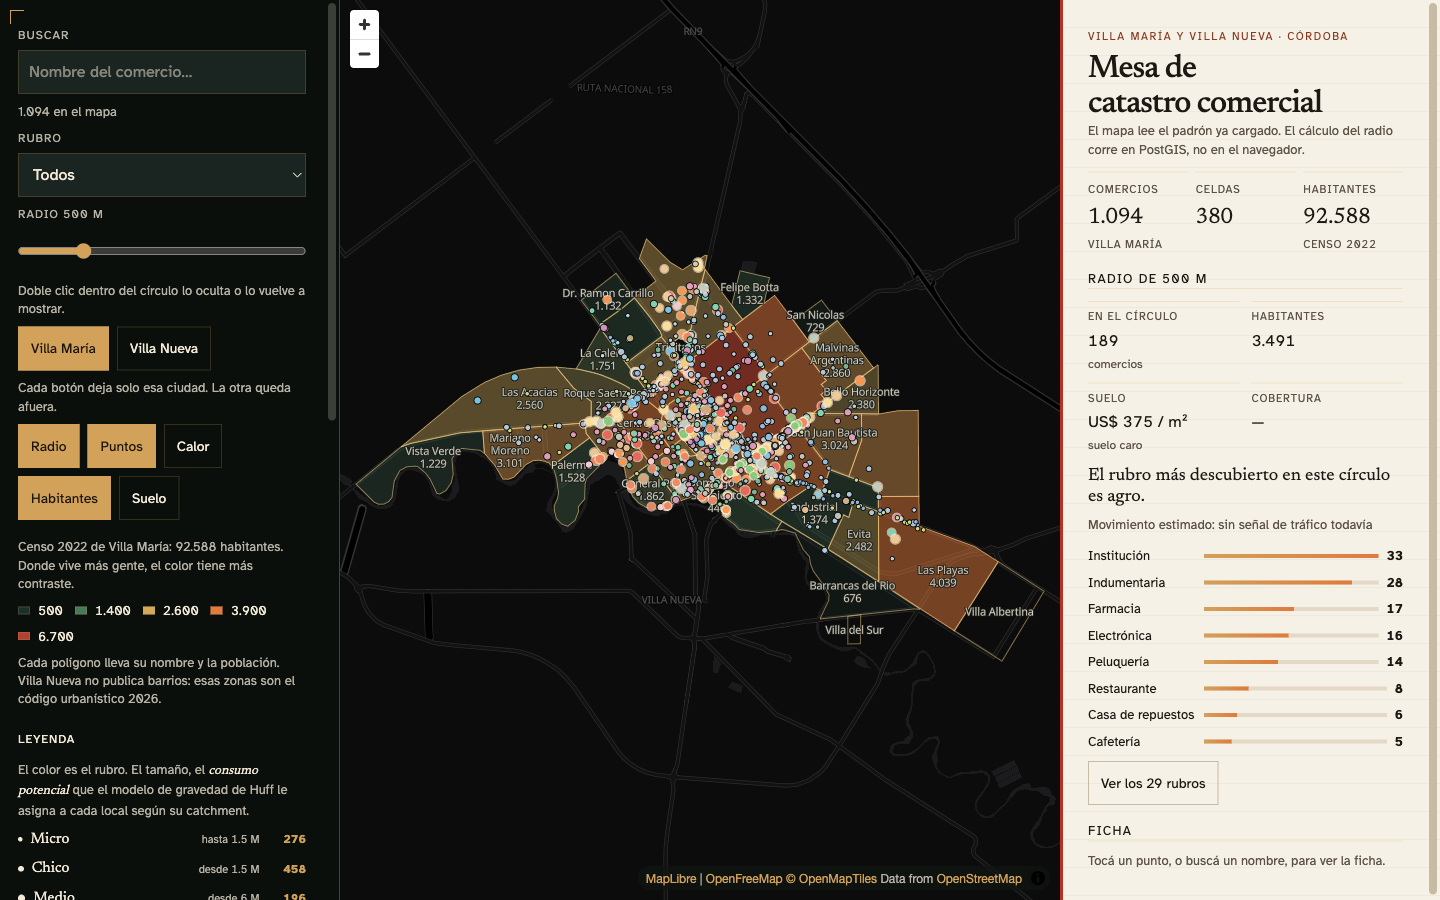
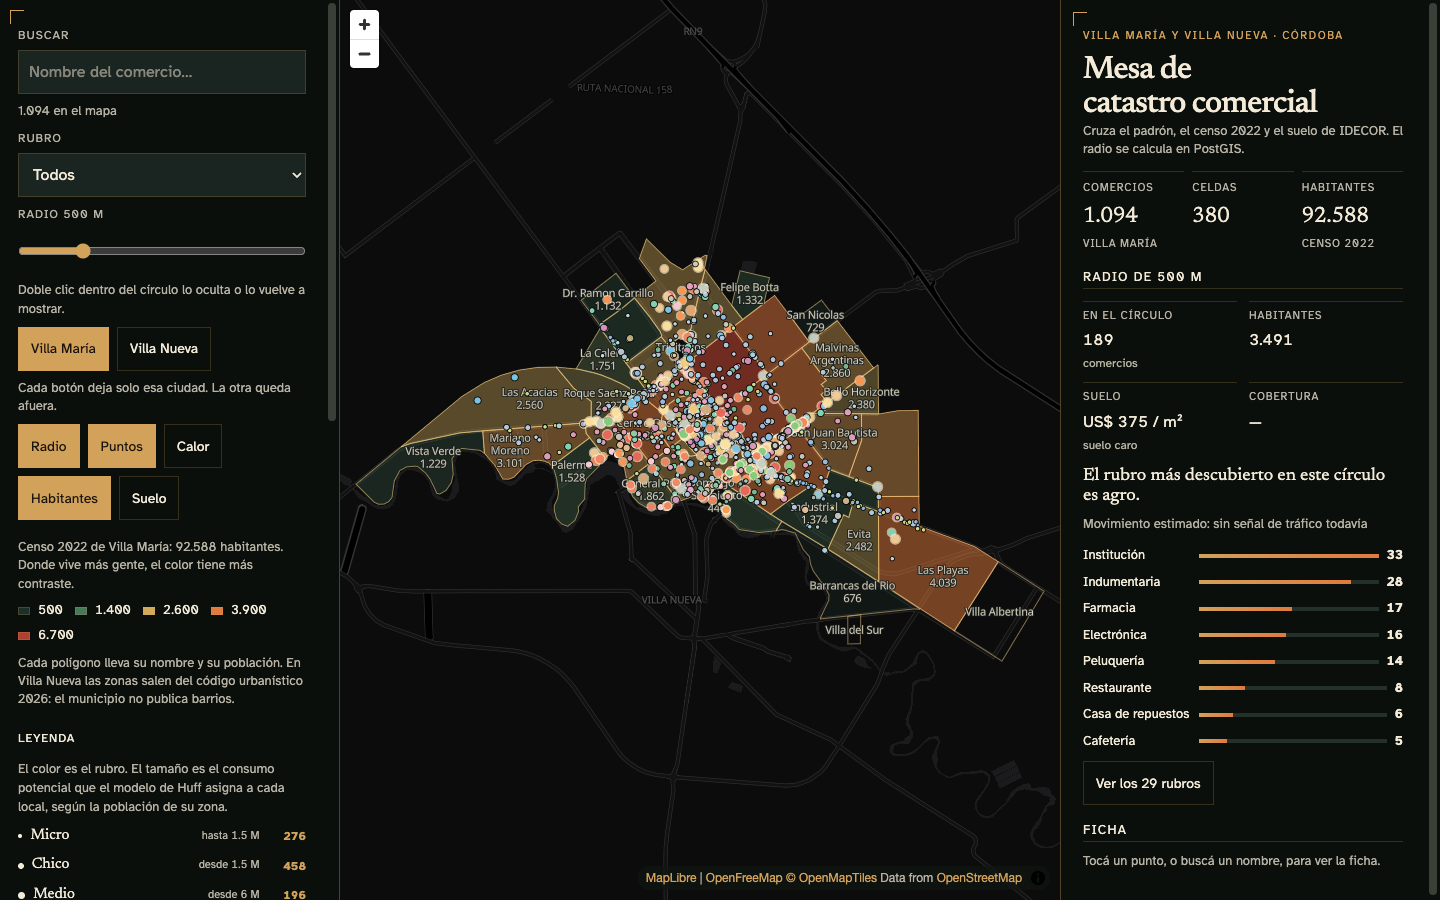
style: match the reading sheet to the dark desk

diff --git a/apps/web/src/app/globals.css b/apps/web/src/app/globals.css
@@ -443,19 +443,19 @@ a:focus-visible {
   height: 100%;
   overflow: auto;
   overscroll-behavior: contain;
-  scrollbar-color: #c8bba4 transparent;
-  padding: max(28px, env(safe-area-inset-top)) 22px max(32px, env(safe-area-inset-bottom)) 28px;
-  color: #1c1914;
+  scrollbar-color: #3a4038 transparent;
+  padding: max(28px, env(safe-area-inset-top)) 22px max(32px, env(safe-area-inset-bottom)) 22px;
+  color: var(--paper);
   background:
-    linear-gradient(#b43324, #b43324) 0 0 / 3px 100% no-repeat,
-    repeating-linear-gradient(#f6f1e6, #f6f1e6 27px, rgba(28, 25, 20, 0.06) 28px),
-    #f3ecdf;
-  border-left: 0;
+    linear-gradient(var(--brass), var(--brass)) 12px 12px / 14px 1px no-repeat,
+    linear-gradient(var(--brass), var(--brass)) 12px 12px / 1px 14px no-repeat,
+    #0a0f0c;
+  border-left: 1px solid rgba(210, 161, 90, 0.35);
 }
 
 .eyebrow {
   margin: 0;
-  color: #8a3a22;
+  color: var(--brass);
   letter-spacing: 0.14em;
   text-transform: uppercase;
   font-size: 11px;
@@ -476,55 +476,6 @@ a:focus-visible {
   color: var(--muted);
   font-size: 13px;
   line-height: 1.45;
-}
-
-.inspector .lede,
-.inspector .note,
-.inspector .empty,
-.inspector .statline,
-.inspector .meters dt,
-.inspector .meters dd small,
-.inspector .cross dt,
-.inspector .cross small,
-.inspector .potential span,
-.inspector .ficha dt {
-  color: #5c5346;
-}
-
-.inspector .saturation,
-.inspector .where button,
-.inspector .ficha a,
-.inspector .ficha h3,
-.inspector .potential strong,
-.inspector h2 {
-  color: #1c1914;
-}
-
-.inspector .where button:hover,
-.inspector .where button:focus-visible,
-.inspector .rubro,
-.inspector .where button b,
-.inspector .where small {
-  color: #8a3a22;
-}
-
-.inspector .track { background: #e4d9c6; }
-
-.inspector .alert {
-  color: #6e2e1c;
-  border-color: rgba(157, 43, 31, 0.45);
-}
-
-.inspector .alert button,
-.inspector .text-button {
-  color: #1c1914;
-  border-color: #c8bba4;
-}
-
-.inspector .text-button:hover,
-.inspector .text-button:focus-visible {
-  color: #8a3a22;
-  border-color: #8a3a22;
 }
 
 .alert {
@@ -736,7 +687,7 @@ a:focus-visible {
 .ficha small {
   display: block;
   margin-top: 2px;
-  color: #5c5346;
+  color: var(--muted);
   font-size: 12px;
   letter-spacing: 0;
   text-transform: none;
@@ -754,7 +705,13 @@ a:focus-visible {
   .desk { overflow: auto; height: auto; min-height: 100dvh; }
   .map-canvas,
   .desk--rails .map-canvas { position: relative; inset: auto; height: 62dvh; }
-  .inspector { position: relative; width: 100%; height: auto; }
+  .inspector {
+    position: relative;
+    width: 100%;
+    height: auto;
+    border-left: 0;
+    border-top: 1px solid rgba(210, 161, 90, 0.35);
+  }
   .tools { position: relative; inset: auto; width: 100%; border-right: 0; border-top: 1px solid rgba(210, 161, 90, 0.35); }
 }
 
